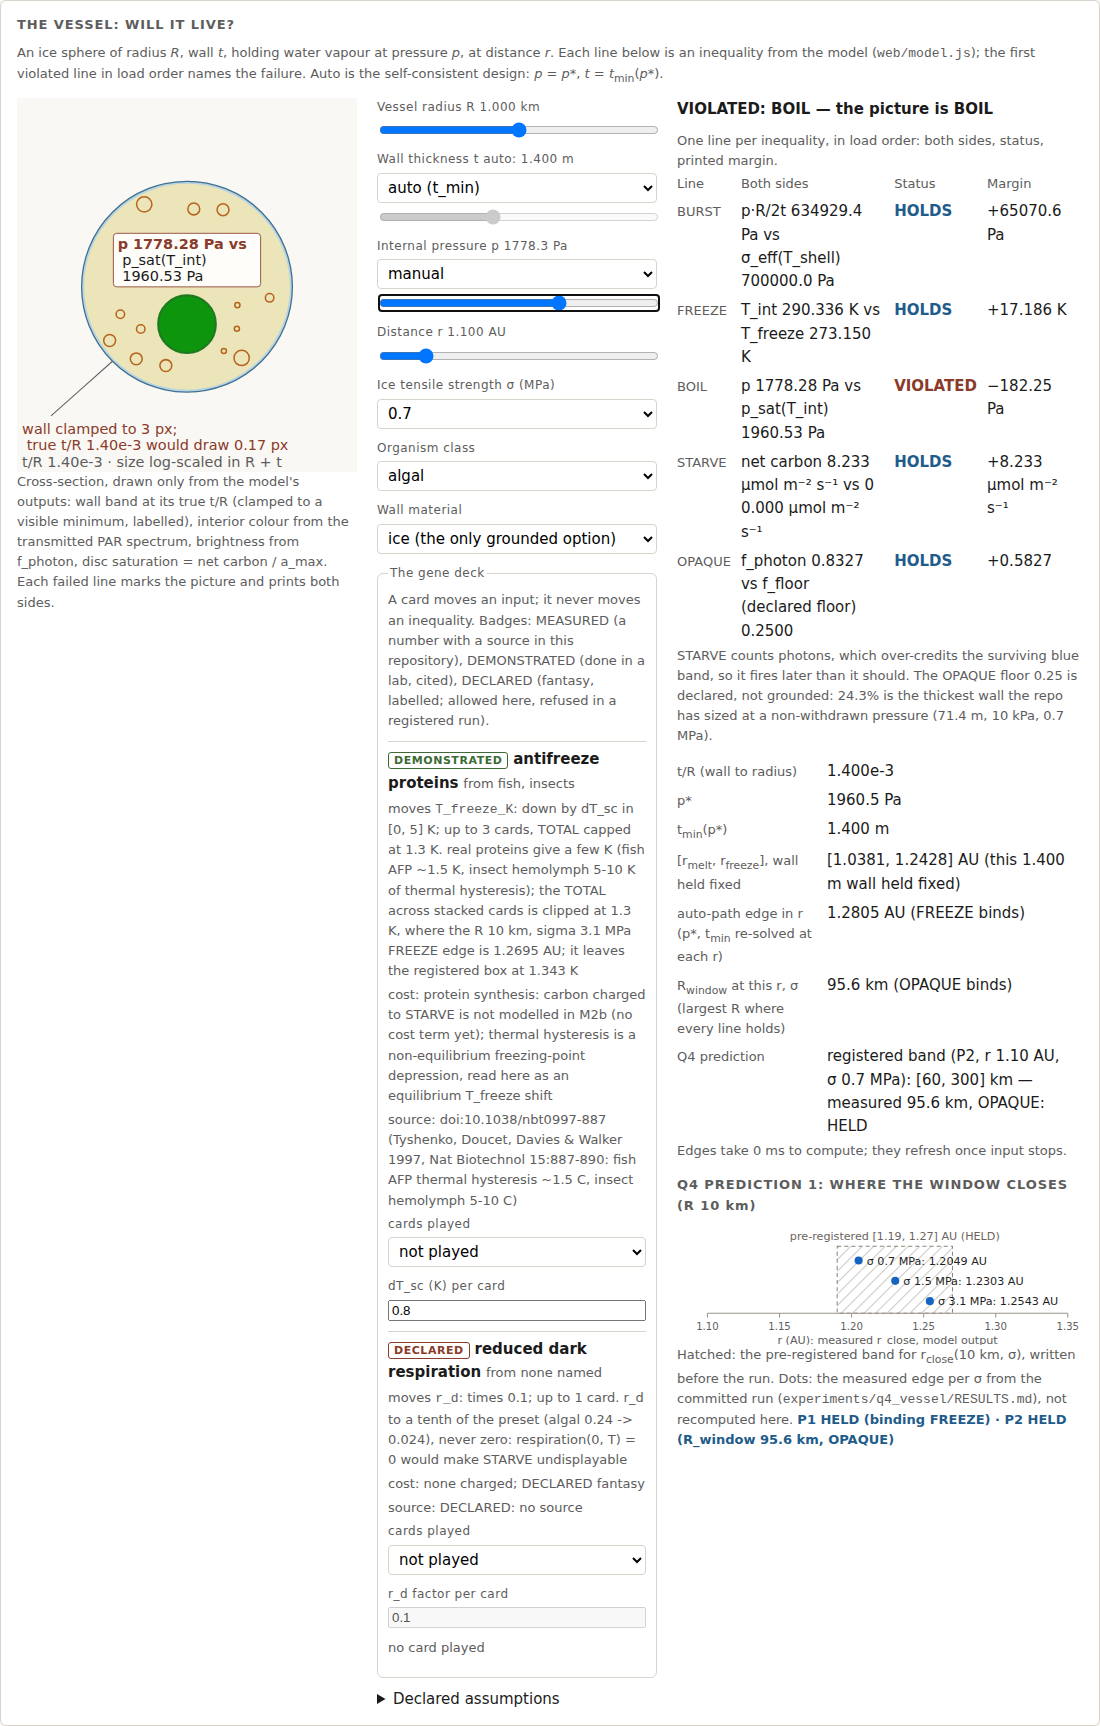
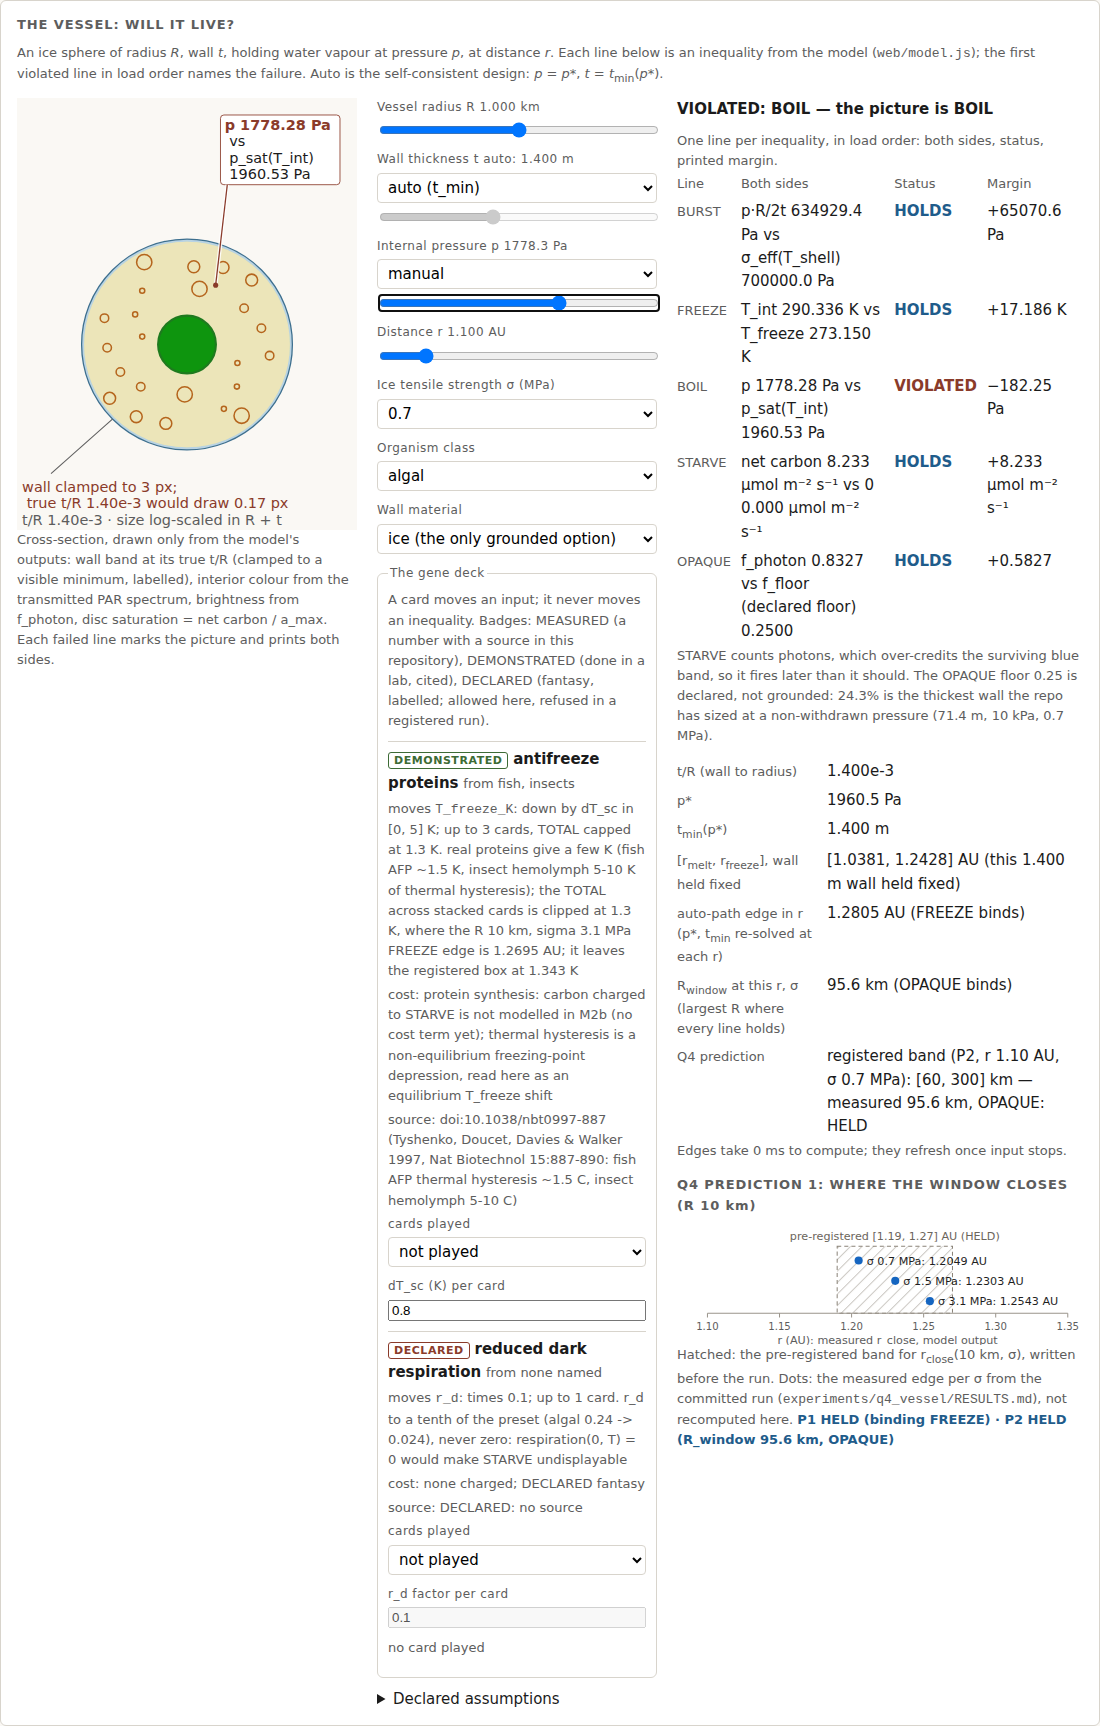
polish(critic round 3): fixed organism disc; every plate outside the vessel with a leader
Mechanism change, not another fit: the disc is one size (34 units) at one centre in every
state (it shrinks only if an interior is too small to hold it, never in the shots). Plates
sit in a strip above the vessel (two columns; a lower strip only past two plates), each with
a haloed leader to an anchor dot at its wound; BURST's leader goes to the crack. Nothing is
laid out inside the interior any more, so the OPAQUE floor tick is clear of every plate.

Smoke, new or changed:
- disc (cx, cy, r) identical across the six states. Seen failing on ecc35d2: defaults/BURST
  (200, 222, 33.87), unclamped r 33.13, FREEZE cy 253.57 r 37.23, BOIL cy 266.06,
  OPAQUE cy 293.43 r 27.72. Now (200, 290, 34) in all six.
- every mark >= 6 rendered px from every plate, measured to the stroke's edge (a leader,
  i.e. a segment ending on the plate boundary, is exempt). Seen failing on ecc35d2: OPAQUE
  gauge 5.1 px. BURST cracks passed narrowly there (ecc35d2 already clipped them 8 units).
- the interior-wound anchoring check now asks for a leader ending inside the interior
  (was: plate text inside the interior); seen failing on ecc35d2 (no leaders).
- plate-vs-wall-band check accepts wholly-inside or wholly-outside-the-rim.
- OPAQUE contrast check scoped to the gauge marks (leaders excluded; they carry a halo).

Figures: measured later root drawn as a grey x (was a tiny "|"), lifted 0.24 row so it never
covers the edge dot beside it; links darker, thicker and trimmed short of each marker.

Changed region(s): [[0.0, 0.0614, 0.3091, 0.3992]]

diff --git a/web/picture.js b/web/picture.js
@@ -17,20 +17,20 @@
   var M = window.DysonModel;
   if (!M) throw new Error("picture: DysonModel not loaded");
   var W = 400,
-    H = 440,
     CX = 200,
-    CY = 222,
+    MARGIN = 20, // every plate keeps this far inside the picture's edge
+    STRIP_H = 110, // a plate strip above (and, past two plates, below) the vessel
+    STRIP_GAP = 12, // strip to the vessel's largest rim
+    CY = 20 + 110 + 12 + 148, // MARGIN + STRIP_H + STRIP_GAP + OUT_MAX: never moves
     OUT_MIN = 100, // px at R + t = 10 m
     OUT_MAX = 148, // px at R + t = 101 km
     MIN_BAND_PX = 3,
     FS = 17, // >= 12 px on screen at the page's figure width (smoke asserts it)
     LH = 19,
-    PLATE_GAP = 10, // units between the organism disc and a plate
+    ORG_R = 34, // the organism disc: one size and one centre in every state
     KEEP_PAD = 3, // units every mark keeps clear of a plate
     WRAP = 20,
-    MARGIN = 20, // every plate keeps this far inside the picture's edge
-    FIT_PAD = 14, // interior plates keep this far inside the wall (the OPAQUE gauge runs there)
-    CLAMP_Y = 378;
+    COL_W = (400 - 2 * 20 - 14) / 2; // two plate columns per strip
   var NS = "http://www.w3.org/2000/svg";
   var BG = "#faf8f4",
     INK = "#1b1b1b",
@@ -181,53 +181,43 @@
     var wmax = Math.max.apply(null, lines.map(function (l) { return l.trim().length; }));
     return { w: wmax * FS * 0.64 + 10, h: lines.length * LH + 6 };
   }
-  // Interior plates: one stack, centred on x, inside the interior clear of the wall band by
-  // FIT_PAD. The disc stays at the centre when the stack fits above it; otherwise the stack
-  // rises as high as the widest plate's corners allow and the disc moves down beneath it.
-  // Returns {boxes: {line: box}, oy: disc centre y}.
-  function layoutInterior(ri, rOrg, names, texts) {
-    if (!names.length) return { boxes: {}, oy: CY, wrap: WRAP, rOrg: rOrg };
-    var rf = ri - FIT_PAD, best = null;
-    // the widest wrap whose stack and full-size disc both fit; failing that, the wrap that
-    // leaves the largest disc (the disc shrinks rather than touch the wall; it never used to)
-    for (var n = WRAP; n >= 10; n--) {
-      var c = stackAt(n);
-      if (!c) continue;
-      if (c.rOrg >= rOrg) return c;
-      if (!best || c.rOrg > best.rOrg) best = c;
-    }
-    if (!best || best.rOrg < 6)
-      throw new Error("picture: no interior layout fits the plates and a disc (ri " + ri.toFixed(1) + ")");
-    return best;
-
-    function stackAt(n) {
-      var sz = names.map(function (k) { return plateSize(texts[k], n); });
-      var Hs = sz.reduce(function (a, z) { return a + z.h; }, 0) + 6 * (sz.length - 1);
-      var Ws = Math.max.apply(null, sz.map(function (z) { return z.w; }));
-      if (Ws / 2 >= rf) return null;
-      var a = Math.sqrt(rf * rf - (Ws * Ws) / 4); // highest top the corners allow
-      var top, oy, r = rOrg;
-      if (rOrg + PLATE_GAP + Hs <= a) {
-        top = CY - (rOrg + PLATE_GAP + Hs); // disc stays centred
-        oy = CY;
-      } else {
-        top = CY - a;
-        var below = top + Hs + PLATE_GAP; // disc spans below..CY + rf
-        r = Math.min(rOrg, (CY + rf - below) / 2);
-        oy = below + r;
-      }
-      if (Math.hypot(Ws / 2, top + Hs - CY) > rf) return null;
-      var boxes = {}, y = top;
-      names.forEach(function (k, i) {
-        boxes[k] = { x0: CX - sz[i].w / 2, y0: y, x1: CX + sz[i].w / 2, y1: y + sz[i].h };
-        y += sz[i].h + 6;
-      });
-      return { boxes: boxes, oy: oy, wrap: n, rOrg: r };
-    }
+  // Plates live OUTSIDE the vessel, in a strip above it (slots 0 right, 1 left) and, past two
+  // plates, a strip below (2 right, 3 left); BURST takes slot 0, over its crack. Each plate gets
+  // the widest wrap that fits its column and the strip. Returns {line: {box, wrap, slot}}.
+  function placePlates(names, texts, below0) {
+    var order = names.filter(function (n) { return n === "BURST"; })
+      .concat(names.filter(function (n) { return n !== "BURST"; }));
+    if (order.length > 4) throw new Error("picture: more than four plates: " + order.join(", "));
+    var out = {};
+    order.forEach(function (n, slot) {
+      var wr = WRAP, sz = plateSize(texts[n], wr);
+      while (wr > 8 && (sz.w > COL_W || sz.h > STRIP_H)) sz = plateSize(texts[n], --wr);
+      if (sz.w > COL_W || sz.h > STRIP_H) throw new Error("picture: plate for " + n + " fits no wrap");
+      var right = slot % 2 === 0, top = slot < 2;
+      var x0 = right ? W - MARGIN - sz.w : MARGIN;
+      var y0 = top ? MARGIN : below0;
+      out[n] = { box: { x0: x0, y0: y0, x1: x0 + sz.w, y1: y0 + sz.h }, wrap: wr, top: top, right: right };
+    });
+    return out;
   }
+  // a plate, and a leader from its inner edge to the wound's anchor point (x1,y1 = the anchor)
+  function plateWithLeader(g, pl, text, anchor) {
+    var b = pl.box;
+    label(g, b.x0, b.y0 + 2, "start", text, true, pl.wrap);
+    var lx = Math.max(b.x0 + 8, Math.min(b.x1 - 8, anchor[0]));
+    var ends = { x1: anchor[0].toFixed(1), y1: anchor[1].toFixed(1), x2: lx.toFixed(1),
+      y2: (pl.top ? b.y1 : b.y0).toFixed(1) };
+    // a white halo under the leader, so it reads over a dark (OPAQUE) interior too
+    el("line", Object.assign({ stroke: "#ffffff", "stroke-width": 4.5, "stroke-opacity": 0.85,
+      "data-mark": "leader-halo" }, ends), g);
+    el("line", Object.assign({ stroke: FAIL, "stroke-width": 1.5, "data-mark": "leader" }, ends), g);
+    el("circle", { cx: anchor[0].toFixed(1), cy: anchor[1].toFixed(1), r: 3, fill: FAIL, "data-mark": "anchor" }, g);
+  }
+  // an interior wound's anchor: between the disc and the wall, toward the plate
   function interiorLabel(g, geo, text, n) {
-    var b = geo.boxes[n];
-    label(g, CX, b.y0 + 2, "middle", text, true, geo.wrap);
+    var pl = geo.plates[n];
+    var ang = (pl.top ? -Math.PI / 2 : Math.PI / 2) + (pl.right ? 1 : -1) * (pl.top ? 0.45 : -0.45);
+    plateWithLeader(g, pl, text, pt((geo.rOrg + geo.ri) / 2, ang));
   }
   // the parts of segment ab outside every keep-out rect (padded), for marks near a plate
   function outside(a, b, rects) {
@@ -279,10 +269,7 @@
           " L" + P2(pt(r0, a + da)) + " Z",
         fill: BG, "data-mark": "gap",
       }, g);
-      // the cracks stop short of the plate (drawn below), with a visible gap
-      var ps = plateSize(text), GAP = 8;
-      var clearOf = geo.keep.concat([{ x0: W - MARGIN - ps.w - GAP, y0: MARGIN - 2 - GAP,
-        x1: W - MARGIN + GAP, y1: MARGIN - 2 + ps.h + GAP }]);
+      var clearOf = geo.keep;
       [[-1, 0.6], [1, 0.6], [-1, -0.5], [1, -0.5], [0, 1], [0, -0.9]].forEach(function (c) {
         var side = a + c[0] * da * 1.3,
           out = c[1] > 0;
@@ -295,10 +282,7 @@
         }
         segs(g, p, { stroke: FAIL, "stroke-width": 2, "stroke-linecap": "round" }, clearOf);
       });
-      var b = label(g, W - MARGIN, MARGIN, "end", text, true);
-      var from = pt(r1 + 26, a);
-      el("line", { x1: P2(from).split(",")[0], y1: P2(from).split(",")[1],
-        x2: (b.x0 + b.w / 2).toFixed(1), y2: (b.y0 + b.h).toFixed(1), stroke: FAIL, "stroke-width": 1.5 }, g);
+      plateWithLeader(g, geo.plates.BURST, text, pt(r1 + 26, a));
     },
     // frost at the wall, inward to the disc's edge: it never covers the organism
     FREEZE: function (g, geo, text, n) {
@@ -392,12 +376,16 @@
     var riTrue = (ro * R) / (R + t);
     var clamped = ro - riTrue < MIN_BAND_PX;
     var ri = clamped ? ro - MIN_BAND_PX : riTrue;
-    var rOrg = Math.max(6, 0.28 * ri);
+    // one disc in every state; only an interior too small for it (never in the shots) shrinks it
+    var rOrg = Math.min(ORG_R, 0.5 * ri);
     var bad = rep.violated.slice();
-    var lay = layoutInterior(ri, rOrg, bad.filter(function (n) { return n !== "BURST"; }), texts);
-    rOrg = lay.rOrg;
-    var geo = { ro: ro, ri: ri, rOrg: rOrg, oy: lay.oy, boxes: lay.boxes, wrap: lay.wrap };
-    geo.keep = Object.keys(lay.boxes).map(function (n) { return lay.boxes[n]; });
+    var below0 = CY + OUT_MAX + STRIP_GAP;
+    var plates = placePlates(bad, texts, below0);
+    var lower = bad.length > 2 ? STRIP_H + STRIP_GAP : 0;
+    var CLAMP_Y = CY + 156 + lower;
+    var H = CLAMP_Y + 62; // clamp label (2 lines) or gauge key, then the footer
+    var geo = { ro: ro, ri: ri, rOrg: rOrg, oy: CY, plates: plates };
+    geo.keep = Object.keys(plates).map(function (n) { return plates[n].box; });
     svg.setAttribute("viewBox", "0 0 " + W + " " + H);
 
     el("title", {}, svg, "Cross-section of the vessel");

diff --git a/tools/smoke_page.py b/tools/smoke_page.py
@@ -494,6 +494,8 @@ def exercise_picture(page, label: str, shoot: bool) -> None:
         page.reload(wait_until="load")
         settle()
 
+    discs = []  # (cx, cy, r) of the organism disc per measured state: must never move or resize
+
     def measure(tag, line=None):
         """Critic round 1: text size, wound anchoring, rim clearance, disc colour, clamp leader."""
         m = page.evaluate(
@@ -532,9 +534,18 @@ def exercise_picture(page, label: str, shoot: bool) -> None:
             near = min(dist_rect(b) for b in m["lab"])
             check(near > C["ro"] + 2, f"[{label}] {tag}: fracture label clear of the rim (nearest {near:.1f} px, rim {C['ro']:.1f} px)")
         elif line in ("FREEZE", "BOIL", "OPAQUE"):
-            cy = [((b["l"] + b["r"]) / 2 - C["x"], (b["t"] + b["b"]) / 2 - C["y"]) for b in m["lab"]]
-            inside = all((x * x + y * y) ** 0.5 < C["ri"] for x, y in cy)
-            check(inside, f"[{label}] {tag}: killing number anchored inside the interior wound {cy} (ri {C['ri']:.1f})")
+            # critic round 3: the plate may sit outside the vessel; it is anchored to the wound by
+            # a leader from its edge whose far end lies inside the interior
+            ends = page.evaluate(
+                """(line) => [...document.querySelectorAll('#pic-ov-' + line + ' [data-mark=leader]')].map(l => {
+                     const svg = document.getElementById('pic'), pt = svg.createSVGPoint();
+                     pt.x = parseFloat(l.getAttribute('x1')); pt.y = parseFloat(l.getAttribute('y1'));
+                     const q = pt.matrixTransform(svg.getScreenCTM()); return [q.x, q.y]; })""",  # getScreenCTM is viewport space, as getBoundingClientRect
+                line,
+            )
+            d_in = [((x - C["x"]) ** 2 + (y - C["y"]) ** 2) ** 0.5 for x, y in ends]
+            check(bool(d_in) and all(d < C["ri"] for d in d_in),
+                  f"[{label}] {tag}: killing number anchored to the interior wound by a leader ending inside (ends at {[round(d, 1) for d in d_in]} px, ri {C['ri']:.1f})")
         rgb = [int(x) for x in re.findall(r"\d+", m["fill"])[:3]]
         mx, mn = max(rgb) / 255, min(rgb) / 255
         lum = (mx + mn) / 2
@@ -557,7 +568,7 @@ def exercise_picture(page, label: str, shoot: bool) -> None:
               const plates = [...svg.querySelectorAll('#pic-overlays rect')].map(r => ({owner: r.parentNode.id,
                 x0: n(r,'x'), y0: n(r,'y'), x1: n(r,'x') + n(r,'width'), y1: n(r,'y') + n(r,'height')}));
               const segs = [];
-              const add = (e, pts) => { for (let i = 1; i < pts.length; i++) segs.push({id: (e.id || e.parentNode.id) + ':' + e.tagName, a: pts[i-1], b: pts[i]}); };
+              const add = (e, pts) => { for (let i = 1; i < pts.length; i++) segs.push({id: (e.id || e.parentNode.id) + ':' + e.tagName, a: pts[i-1], b: pts[i], sw: parseFloat(getComputedStyle(e).strokeWidth) || 0}); };
               svg.querySelectorAll('#pic-overlays line, #pic-clamp-leader').forEach(e =>
                 add(e, [[n(e,'x1'), n(e,'y1')], [n(e,'x2'), n(e,'y2')]]));
               svg.querySelectorAll('#pic-overlays polyline').forEach(e =>
@@ -567,7 +578,9 @@ def exercise_picture(page, label: str, shoot: bool) -> None:
               const o = document.getElementById('pic-organism'), inn = document.getElementById('pic-inner');
               const vb = svg.viewBox.baseVal;
               return {plates, segs, rings, disc: {cx: n(o,'cx'), cy: n(o,'cy'), r: n(o,'r')},
-                      inner: {cx: n(inn,'cx'), cy: n(inn,'cy'), r: n(inn,'r')}, vb: {w: vb.width, h: vb.height}}; }"""
+                      inner: {cx: n(inn,'cx'), cy: n(inn,'cy'), r: n(inn,'r')},
+                      outer: (() => { const e = document.getElementById('pic-outer');
+                        return {cx: n(e,'cx'), cy: n(e,'cy'), r: n(e,'r'), sw: parseFloat(e.getAttribute('stroke-width')) || 0}; })(), vb: {w: vb.width, h: vb.height}}; }"""
         )
 
         def seg_hits(a, b, R):
@@ -601,13 +614,16 @@ def exercise_picture(page, label: str, shoot: bool) -> None:
         for R in g["plates"]:
             m_ = min(R["x0"], R["y0"], g["vb"]["w"] - R["x1"], g["vb"]["h"] - R["y1"])
             check(m_ >= 8, f"[{label}] {tag}: plate {R['owner']} keeps >= 8 units inside the picture edge ({m_:.1f})")
-        # polish item 6: an interior plate lies inside the interior, clear of the wall band
-        I = g["inner"]
+        # polish item 6: a plate never overlaps the wall band: wholly inside the interior, or
+        # wholly outside the rim (incl. its outline)
+        I, O = g["inner"], g["outer"]
         for R in g["plates"]:
-            if R["owner"] == "pic-ov-BURST":
-                continue
             far = max(((x - I["cx"]) ** 2 + (y - I["cy"]) ** 2) ** 0.5 for x in (R["x0"], R["x1"]) for y in (R["y0"], R["y1"]))
-            check(far <= I["r"] - 3, f"[{label}] {tag}: plate {R['owner']} clear of the wall band (corner at {far:.1f}, interior {I['r']:.1f})")
+            nx = min(max(O["cx"], R["x0"]), R["x1"]) - O["cx"]
+            ny = min(max(O["cy"], R["y0"]), R["y1"]) - O["cy"]
+            near = (nx * nx + ny * ny) ** 0.5
+            check(far <= I["r"] - 3 or near >= O["r"] + O["sw"] / 2 + 3,
+                  f"[{label}] {tag}: plate {R['owner']} clear of the wall band (inner corner reach {far:.1f} vs interior {I['r']:.1f}; nearest {near:.1f} vs rim {O['r']:.1f})")
         # critic round 2: interior shows between the disc (incl. its stroke) and the wall band's
         # inner edge, measured on RENDERED px
         w = page.evaluate(
@@ -619,7 +635,35 @@ def exercise_picture(page, label: str, shoot: bool) -> None:
               return {gap: ib.width / 2 - (Math.hypot(dx, dy) + ob.width / 2 + sw / 2), k}; }"""
         )
         check(w["gap"] >= 10, f"[{label}] {tag}: disc (with stroke) clears the wall band by {w['gap']:.1f} rendered px >= 10")
+        # critic round 3: marks keep >= 6 rendered px from every plate; a leader (a segment with
+        # an endpoint on a plate's boundary) is the one mark allowed to meet it
+        k_ = page.evaluate("() => { const s = document.getElementById('pic'); return s.getBoundingClientRect().width / s.viewBox.baseVal.width; }")
+
+        def on_edge(q, R):
+            inx, iny = R["x0"] - 0.6 <= q[0] <= R["x1"] + 0.6, R["y0"] - 0.6 <= q[1] <= R["y1"] + 0.6
+            return inx and iny and min(abs(q[0] - R["x0"]), abs(q[0] - R["x1"]), abs(q[1] - R["y0"]), abs(q[1] - R["y1"])) <= 0.6
+
+        def seg_rect_dist(a, b, R):
+            best = float("inf")
+            for i in range(41):
+                t = i / 40
+                x, y = a[0] + (b[0] - a[0]) * t, a[1] + (b[1] - a[1]) * t
+                dx = max(R["x0"] - x, 0, x - R["x1"])
+                dy = max(R["y0"] - y, 0, y - R["y1"])
+                best = min(best, (dx * dx + dy * dy) ** 0.5)
+            return best
+
+        near_ = []
+        for R in g["plates"]:
+            for s_ in g["segs"]:
+                if s_["id"].startswith("pic-clamp") or on_edge(s_["a"], R) or on_edge(s_["b"], R):
+                    continue
+                dd = (seg_rect_dist(s_["a"], s_["b"], R) - s_["sw"] / 2) * k_  # to the stroke's edge
+                if dd < 6:
+                    near_.append(f"{s_['id']} {dd:.1f}px from plate {R['owner']}")
+        check(not near_, f"[{label}] {tag}: every mark keeps >= 6 px from every plate: {near_[:4]}")
         d = g["disc"]
+        discs.append((tag, round(d["cx"], 2), round(d["cy"], 2), round(d["r"], 2)))
         for R in g["plates"]:
             if R["owner"] == "pic-ov-BURST":
                 continue
@@ -632,7 +676,7 @@ def exercise_picture(page, label: str, shoot: bool) -> None:
         m = page.evaluate(
             """() => { const g = document.getElementById('pic-ov-OPAQUE');
               const cs = (e, p) => getComputedStyle(e)[p];
-              const hatch = [...g.querySelectorAll('line')].map(l => ({c: cs(l, 'stroke'), a: parseFloat(cs(l, 'strokeOpacity'))}));
+              const hatch = [...g.querySelectorAll('line:not([data-mark^=leader])')].map(l => ({c: cs(l, 'stroke'), a: parseFloat(cs(l, 'strokeOpacity'))}));
               const veil = g.querySelector('[data-mark=veil]');
               return {hatch, inner: cs(document.getElementById('pic-inner'), 'fill'),
                       veil: veil ? {c: cs(veil, 'fill'), a: parseFloat(cs(veil, 'fillOpacity'))} : null}; }"""
@@ -730,6 +774,9 @@ def exercise_picture(page, label: str, shoot: bool) -> None:
         shot(name)
         settle()
     reload()
+    geo_ = sorted({d[1:] for d in discs})
+    check(len(discs) == 6 and len(geo_) == 1,
+          f"[{label}] organism disc (cx, cy, r) identical in all six states: {discs}")
 
 
 
